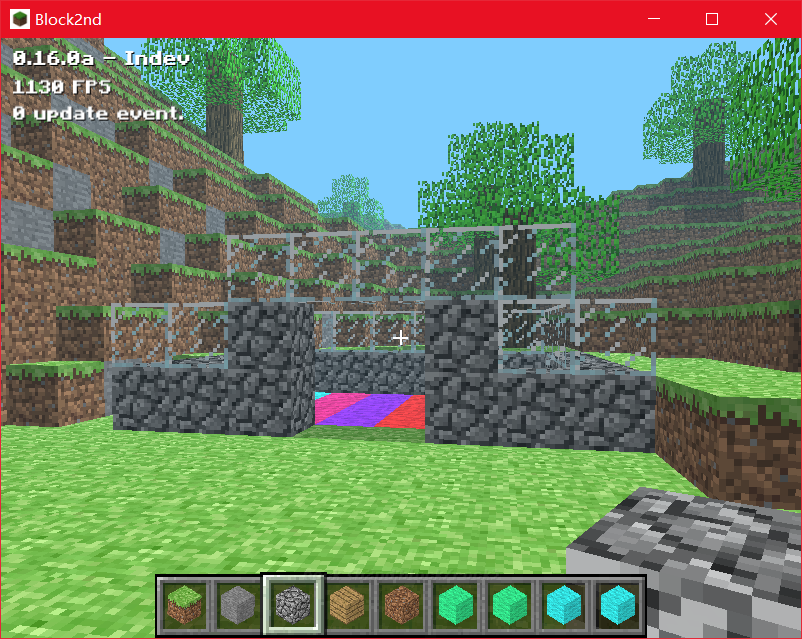
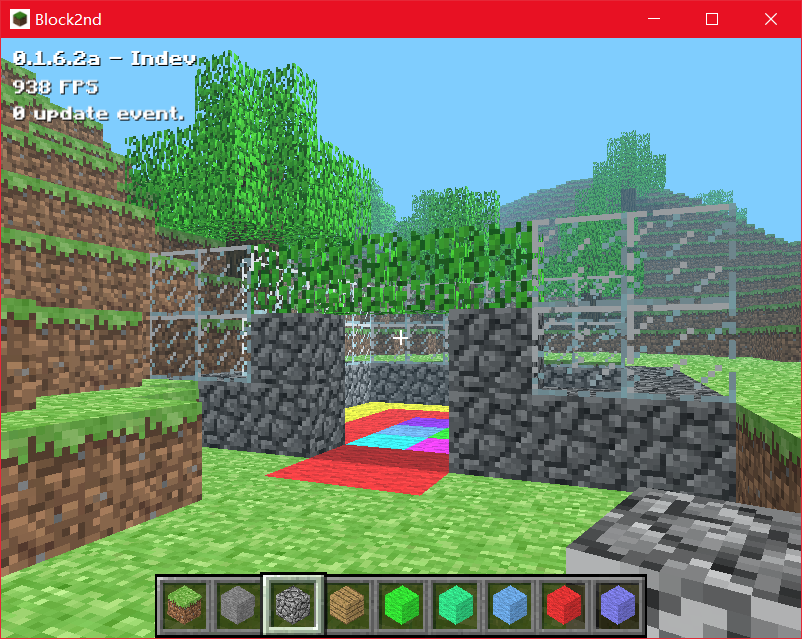
update(0.1.6.2a): 修复透明方块渲染问题

diff --git a/Assets/Scripts/Block2nd/Render/SelectBox.cs b/Assets/Scripts/Block2nd/Render/SelectBox.cs
@@ -10,6 +10,10 @@ namespace Block2nd.Render
 	{
 		private MeshFilter meshFilter;
 
+		private List<Vector3> posList = new List<Vector3>();
+		private List<Vector2> uvList = new List<Vector2>();
+		private List<int> triList = new List<int>();
+
 		private void Awake()
 		{
 			meshFilter = GetComponent<MeshFilter>();
@@ -17,12 +21,34 @@ namespace Block2nd.Render
 
 		public void UpdateDetectBoxByShape(BlockShape shape, Vector3 position, int exposedFace)
 		{
+			posList.Clear();
+			uvList.Clear();
+			triList.Clear();
+
 			var shapeMesh = shape.GetShapeMesh(exposedFace, 0);
 
 			var mesh = new Mesh();
-			mesh.vertices = shapeMesh.positions;
-			mesh.triangles = shapeMesh.triangles;
-			mesh.uv = shapeMesh.texcoords;
+
+			for (int i = 0; i < shapeMesh.positionCount; ++i)
+			{
+				posList.Add(shapeMesh.positions[i]);
+			}
+			
+			
+			for (int i = 0; i < shapeMesh.texcoordCount; ++i)
+			{
+				uvList.Add(shapeMesh.texcoords[i]);
+			}
+			
+			
+			for (int i = 0; i < shapeMesh.triangleCount; ++i)
+			{
+				triList.Add(shapeMesh.triangles[i]);
+			}
+
+			mesh.vertices = posList.ToArray();
+			mesh.triangles = triList.ToArray();
+			mesh.uv = uvList.ToArray();
 
 			transform.position = position;
 			

diff --git a/Assets/Scripts/Block2nd/World/Chunk.cs b/Assets/Scripts/Block2nd/World/Chunk.cs
@@ -159,9 +159,9 @@ namespace Block2nd.World
                             var blockMesh = behavior.OnRender();
                             if (blockMesh == null)
                                 blockMesh = meta.shape.GetShapeMesh(
-                                    meta.transparent ? 
+                                    meta.forceRenderAllFace ? 255 : (meta.transparent ? 
                                         GetExposedFaceTransparent(x, y, z, meta.blockCode) :
-                                        GetExposedFace(x, y, z),
+                                        GetExposedFace(x, y, z)),
                                     GetLightAttenuation(x, y, z));
                             var triangleStartIdx = vert.Count;
 

diff --git a/Assets/Scripts/Block2nd/Database/Meta/BlockMeta.cs b/Assets/Scripts/Block2nd/Database/Meta/BlockMeta.cs
@@ -312,7 +312,10 @@ namespace Block2nd.Database.Meta
         public int blockCode = 0;
         public string blockId;
         public string blockName;
+        
         public bool transparent;
+        public bool forceRenderAllFace;
+        
         public BlockBehavior behavior = new StaticBlockBehavior();
 
         [NotNull] public BlockShape shape;

diff --git a/Assets/Scripts/Block2nd/Database/BlockMetaDatabase.cs b/Assets/Scripts/Block2nd/Database/BlockMetaDatabase.cs
@@ -263,7 +263,8 @@ namespace Block2nd.Database
 				blockId = "b2nd:block/leaves",
 				blockName = "Leaves",
 				shape = new CubeBlockShape(CubeBlockShape.CubeAppearance.NewSameFace(22)),
-				transparent = true
+				transparent = true,
+				forceRenderAllFace = true,
 			});
 			
 			AddBlock(new BlockMeta

diff --git a/Assets/Scripts/Block2nd/Client/GameClient.cs b/Assets/Scripts/Block2nd/Client/GameClient.cs
@@ -45,7 +45,7 @@ namespace Block2nd.Client
 		public int ViewDistanceCandidateIdx => viewDistanceCandidateIdx;
 		public int ShaderCandidateIdx => shaderCandidateIdx;
 
-		public string GameVersion => "0.16.1a";
+		public string GameVersion => "0.1.6.2a";
 
 		public string GameVersionSubject => "Indev";
 
